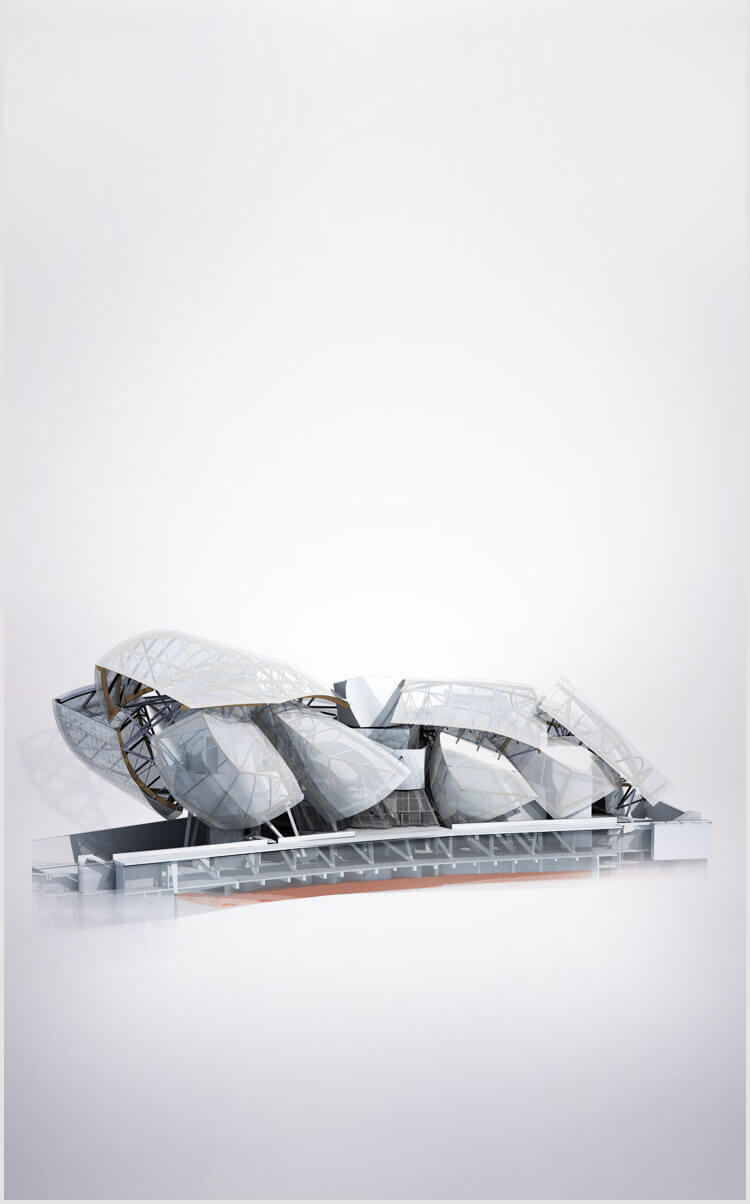
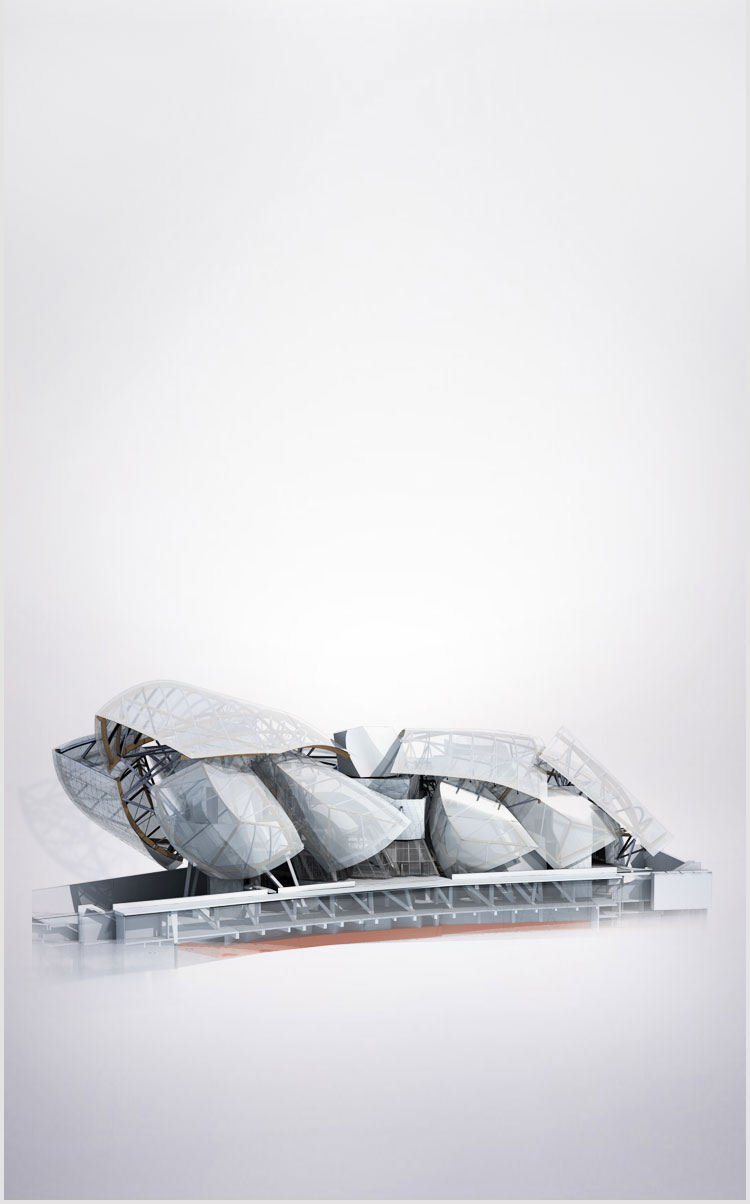
no message

Changed region(s): [[0.0307, 0.5224, 0.9507, 0.8297]]

diff --git a/src/LV/Bundle/FondationBundle/Resources/public/css/style.css b/src/LV/Bundle/FondationBundle/Resources/public/css/style.css
@@ -341,11 +341,22 @@ html,body,#dreambox{
 	line-height: 18px;
 }
 
+.activeTips_chapter2{
+	width: 100%;
+	font-size: 12px;
+	text-align: center;
+	line-height: 16px;
+	position: absolute;
+	left: 0;
+	bottom: 0;
+}
+
+
 /* chapter3 */
 .glassInstall{
 	width: 100%;
 	height: 100%;
-	background: url("/images/chapter3/building.jpg") center bottom no-repeat;
+	background: url("/images/chapter3/building.jpg") center top no-repeat;
 	background-size: 100% auto;
 	position: relative;
 }
@@ -364,14 +375,14 @@ html,body,#dreambox{
 .glassInstall h2{
 	font-size: 16px;
 	width: 100%;
-	margin: 5em 0 0 0;
+	margin: 5em 0 1em 0;
 	display: inline-block; 
 	color: #3b3b3c;
 }
 
 .glassBlock{
 	width: 60%;
-	margin: 0.8em 0 0 0; 
+	margin: 1.8em 0 0 0; 
 	display: inline-block;
 }
 
@@ -389,7 +400,7 @@ html,body,#dreambox{
 .glassInstall_fin{
 	width: 100%;
 	height: 100%;
-	background: url("/images/chapter3/building_fin.jpg") center 56% no-repeat;
+	background: url("/images/chapter3/building_fin.jpg") center top no-repeat;
 	background-size: 100% auto;
 	position: absolute;
 	left: 0;
@@ -437,7 +448,7 @@ html,body,#dreambox{
 .glass_footer{
 	position: absolute;
 	left: 0;
-	bottom: 0.7em;
+	bottom: 1em;
 	width: 100%;
 	z-index: 2;
 	line-height: 0;
@@ -469,10 +480,10 @@ html,body,#dreambox{
 }
 
 .chapter4_text h2{
-	font-size: 30px;
+	font-size: 27px;
 	color: #000;
 	border-bottom: 1px #020202 solid;
-	padding: 0 0 0.5em 0;
+	padding: 0.6em 0 0.3em 0;
 	display: inline-block;
 }
 
@@ -1385,11 +1396,13 @@ html,body,#dreambox{
 .maplink{
 	width: 34%;
 	height: 30%;
-	background: green;
+	background: none;
 	opacity: 0.6;
 	position: absolute;
-	left: 30%;
-	top: 20%;
+	left: 37%;
+	top: 24%;
+	z-index: 100;
+	display: none;
 }
 
 
@@ -1545,11 +1558,11 @@ html,body,#dreambox{
 
 
 .panoramaLink{
-	width: 65%;
+	width: 45%;
 	height: 27%;
 	background: none;
 	position: absolute;
-	left: 22%;
+	left: 45%;
 	top: 50%;
 	z-index: 99;
 	display: none;
